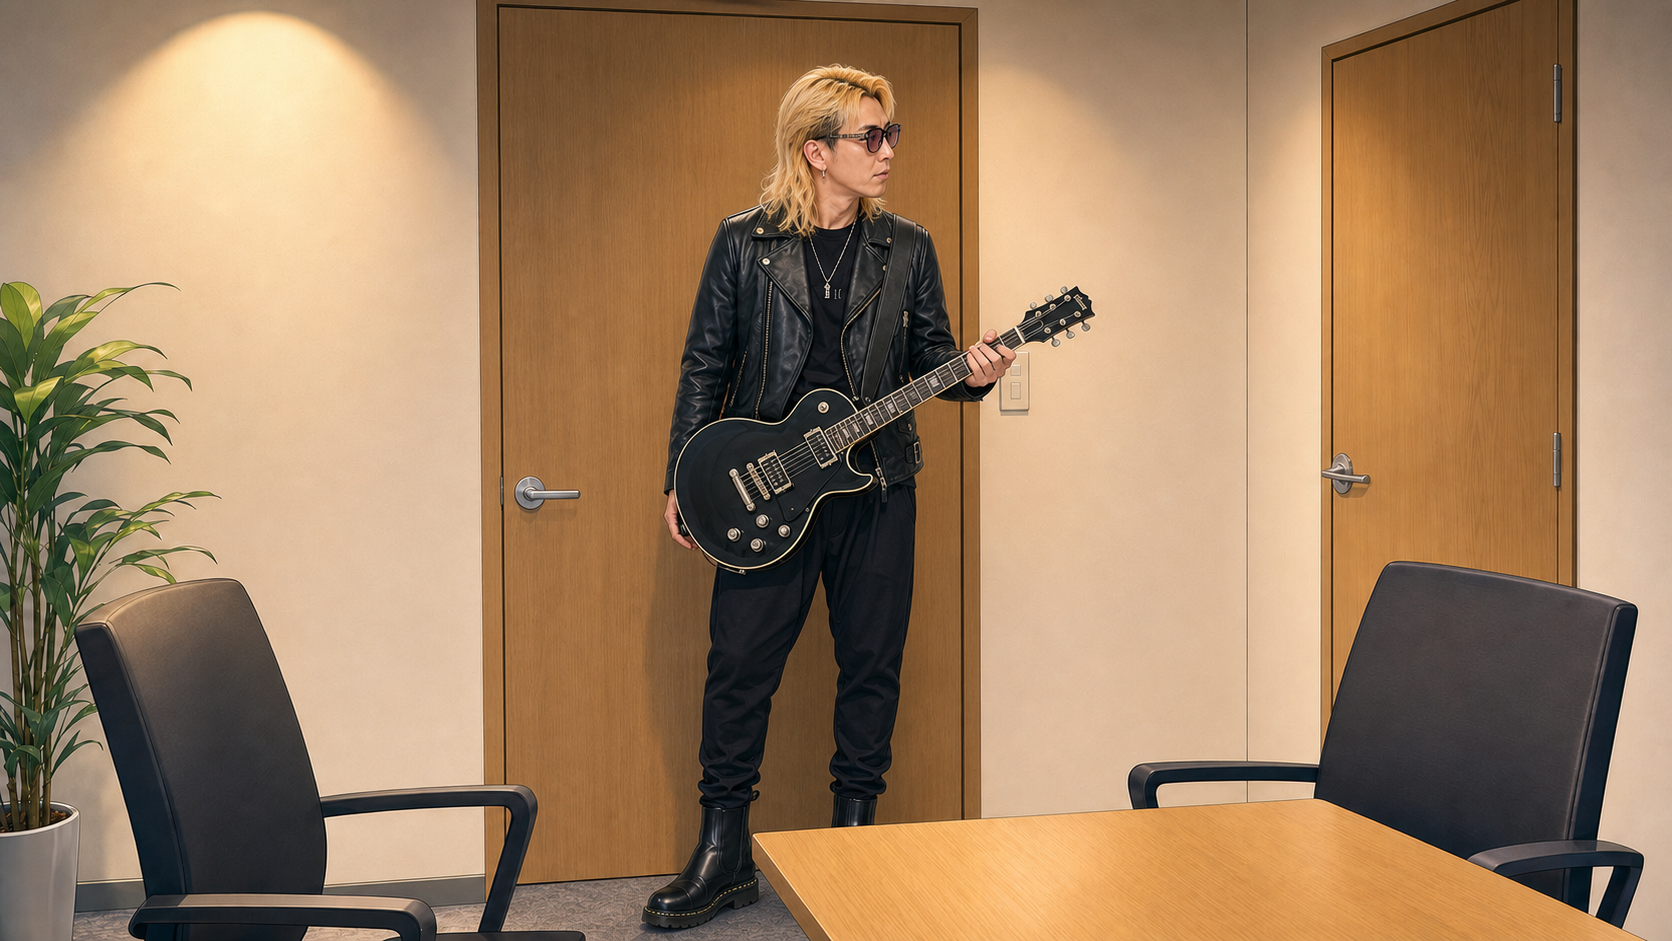
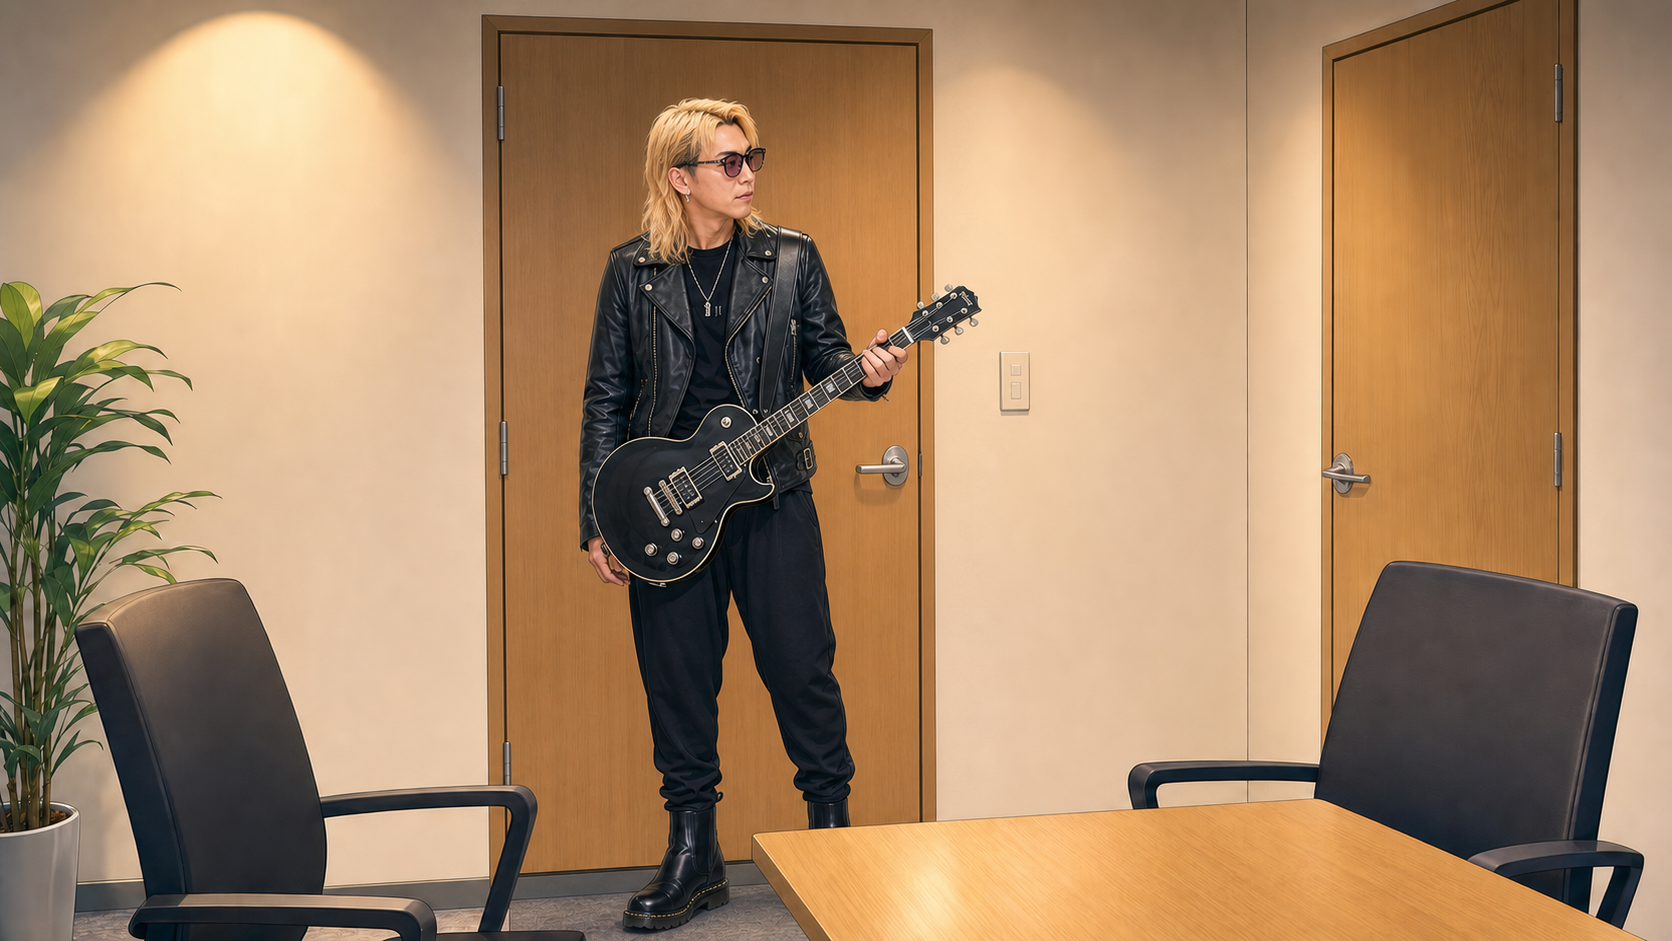
feat(seedance): ドアノブ・蝶番など機構小物の配置整合性ルールを追加
生成動画で「蝶番側にドアノブが付く」「閉扉した途端にノブが消える」崩れが
発生したため、原因（プロンプト・キーフレームに蝶番側/ノブ側の指定が無い）
への恒久対策を追加する。

- SKILL.md: 機構小物の配置整合性ルールを新設。可動建具が映るランでは
  Fixture layout台帳（蝶番側/ノブ側/開き方向）をscript.mdに必須化し、
  全キーフレーム生成プロンプトとMotion promptへの反復・否定形指示・
  目視確認・パイロット検証項目を追加
- ラン25: Fixture layout表を追加し、両クリップのフレーム記述・
  Motion prompt・キーフレーム生成プロンプトに金具指定を反映
- clip1_end.png / clip2_end.png: ノブが蝶番側に描かれていたため
  正しい配置（入口ドア=左蝶番・右端ノブ、サイドドア=右蝶番・左端ノブ）で
  再生成。validate_run_bundle.py通過済み

diff --git a/03_SCRIPTS/25_yotan_sobaya_dress_code_interview/script.md b/03_SCRIPTS/25_yotan_sobaya_dress_code_interview/script.md
@@ -29,6 +29,15 @@ Setting: a clean, bright interview room at Accidenchua Inc., with a hallway entr
 
 Logical check: the entrance and side-door transitions occur visibly. No liquid level changes. Nobody drinks or pours. Yotan's guitar and Sobaya's mask and mug remain mandatory design elements.
 
+## Fixture layout (constant across ALL clips — hinges and handles never move)
+
+| Fixture | Hinge side (from camera) | Handle | Opens |
+|---|---|---|---|
+| Hallway entrance door (back wall) | LEFT edge | silver lever handle on the RIGHT edge (the edge opposite the hinges), mid-height | inward into the room, swinging toward camera-left |
+| Interview-room side door (right wall) | RIGHT edge | silver lever handle on the LEFT edge (the edge opposite the hinges), mid-height | inward into the room, swinging toward camera-right |
+
+Every keyframe prompt and Motion prompt that shows a door must repeat this layout, including when the door is fully closed. Handles never disappear, never move to the hinge side, and are never duplicated.
+
 ## Clip 1 — The unseen dress-code warning
 
 Duration: 7 seconds
@@ -37,18 +46,18 @@ Audio: `clip1_line1_sobaya.wav`
 
 ### First frame
 
-A medium-wide view from inside the spotless interview room toward the hallway entrance. Yotan — the slim 170cm 40-year-old rocker with shoulder-length blond hair, round sunglasses and a black leather biker jacket, holding an electric guitar — is halfway through the half-open door. His required guitar is securely slung across his body and one hand holds its neck. His mouth is CLOSED. Sobaya is not visible. The room's side door is closed. No text.
+A medium-wide view from inside the spotless interview room toward the hallway entrance. Yotan — the slim 170cm 40-year-old rocker with shoulder-length blond hair, round sunglasses and a black leather biker jacket, holding an electric guitar — is halfway through the half-open door. The entrance door is hinged on its LEFT edge and swung inward toward camera-left; its silver lever handle sits at mid-height on the free RIGHT edge (opposite the hinges). His required guitar is securely slung across his body and one hand holds its neck. His mouth is CLOSED. Sobaya is not visible. The room's side door is closed, with its silver lever handle at mid-height on its LEFT edge (hinge on the RIGHT edge). No text.
 
 ### Last frame
 
-The same room, framing, and lighting. Yotan now stands fully inside beside the interview table. The entrance door has closed behind him. His guitar and clothing are unchanged. He turns toward the still-closed side door with confused disbelief, mouth CLOSED. Sobaya remains completely off-screen.
+The same room, framing, and lighting. Yotan now stands fully inside beside the interview table. The entrance door has closed behind him; its silver lever handle is clearly visible at mid-height on the RIGHT edge of the closed door (hinges on the LEFT edge) — the handle has NOT disappeared and has NOT moved to the hinge side. His guitar and clothing are unchanged. He turns toward the still-closed side door (lever handle on its LEFT edge) with confused disbelief, mouth CLOSED. Sobaya remains completely off-screen.
 
 ### Prop states
 
 - Guitar: securely slung, one hand on neck → unchanged.
 - Beer mug: off-screen, upright, HALF-FULL → unchanged; no drinking or pouring.
-- Entrance door: half-open → visibly closes after Yotan enters.
-- Side door: closed → remains closed.
+- Entrance door: half-open → visibly closes after Yotan enters. Hinged on its LEFT edge, silver lever handle on the RIGHT edge (opposite the hinges) at mid-height; the handle stays on that edge through the whole swing and remains visible when the door is fully closed.
+- Side door: closed → remains closed. Lever handle on its LEFT edge (hinge on the RIGHT edge) throughout.
 
 ### Motion
 
@@ -67,7 +76,7 @@ Yotan takes two relaxed steps inside and the entrance door swings shut. An unsee
 
 ```text
 Required attached reference files: @Image1 = Sobaya_sheet.png — Sobaya's character model sheet, identity/design reference only, NOT a composition reference; @Image2 = Yotan_sheet.png — Yotan's character model sheet, identity/design reference only, NOT a composition reference. These reference attachments are REQUIRED inputs and must remain attached for this generation.
-Create a cheerful Japanese office-interview comedy shot moving exactly from Frame A to Frame B. Keep the clean interview room, framing, lighting, identities and props consistent. Yotan (@Image2, Yotan — the slim 170cm 40-year-old rocker with shoulder-length blond hair, round sunglasses and a black leather biker jacket, holding an electric guitar) takes two relaxed steps through the half-open entrance. His required electric guitar stays securely slung across his body and one hand stays on its neck. The entrance door visibly swings closed behind him. The room's side door stays CLOSED. Sobaya (@Image1, Sobaya — the hulking 180cm/100kg muscular gray-skinned man whose face is always covered by a white mask with red markings, wearing a white T-shirt and holding a large beer mug) remains completely OFF-SCREEN for the entire clip. ONLY off-screen Sobaya speaks “何その金髪と革ジャン。弊社はドレスコード厳しいよ？” using @Audio1 AS-IS. Because Sobaya is off-screen, no visible mouth lip-syncs to @Audio1. Yotan does NOT speak — his mouth stays CLOSED; he pauses, turns toward the unseen voice, and reacts with confused disbelief. Sobaya's off-screen mug stays upright and HALF-FULL. No drinking, pouring, or liquid change. Use the attached audio AS-IS; do NOT generate any voice — no synthesized speech, narration, or doubled dialogue. The reference sheets' labels must NOT appear. No subtitles, text, logos, watermarks, extra people, extra dialogue, bullying, humiliation, harassment, sadness, injury, or dark mood.
+Create a cheerful Japanese office-interview comedy shot moving exactly from Frame A to Frame B. Keep the clean interview room, framing, lighting, identities and props consistent. Yotan (@Image2, Yotan — the slim 170cm 40-year-old rocker with shoulder-length blond hair, round sunglasses and a black leather biker jacket, holding an electric guitar) takes two relaxed steps through the half-open entrance. His required electric guitar stays securely slung across his body and one hand stays on its neck. The entrance door visibly swings closed behind him. The entrance door is hinged on its LEFT edge and its silver lever handle sits at mid-height on the RIGHT edge (the edge opposite the hinges); the hinges and handle stay fixed to those same edges throughout the swing, and once the door is fully closed the handle stays clearly visible on the RIGHT edge — the handle does NOT disappear, does NOT move to the hinge side, and is NOT duplicated. The room's side door stays CLOSED, keeping its silver lever handle at mid-height on its LEFT edge (hinge on the RIGHT edge). Sobaya (@Image1, Sobaya — the hulking 180cm/100kg muscular gray-skinned man whose face is always covered by a white mask with red markings, wearing a white T-shirt and holding a large beer mug) remains completely OFF-SCREEN for the entire clip. ONLY off-screen Sobaya speaks “何その金髪と革ジャン。弊社はドレスコード厳しいよ？” using @Audio1 AS-IS. Because Sobaya is off-screen, no visible mouth lip-syncs to @Audio1. Yotan does NOT speak — his mouth stays CLOSED; he pauses, turns toward the unseen voice, and reacts with confused disbelief. Sobaya's off-screen mug stays upright and HALF-FULL. No drinking, pouring, or liquid change. Use the attached audio AS-IS; do NOT generate any voice — no synthesized speech, narration, or doubled dialogue. The reference sheets' labels must NOT appear. No subtitles, text, logos, watermarks, extra people, extra dialogue, bullying, humiliation, harassment, sadness, injury, or dark mood.
 ```
 
 ## Clip 2 — The reveal and retort
@@ -78,18 +87,18 @@ Audio: `clip2_line1_yotan.wav`
 
 ### First frame
 
-Use `clip1_end.png` unchanged. Yotan faces the closed side door with confused disbelief and a CLOSED mouth. The entrance door is closed. Sobaya remains off-screen. All prop states exactly match Clip 1's last frame.
+Use `clip1_end.png` unchanged. Yotan faces the closed side door with confused disbelief and a CLOSED mouth. The entrance door is closed, its silver lever handle visible at mid-height on its RIGHT edge (hinges on the LEFT edge). The side door's lever handle is on its LEFT edge. Sobaya remains off-screen. All prop states exactly match Clip 1's last frame.
 
 ### Last frame
 
-The same framing and room. The side door is open. Sobaya — the hulking 180cm/100kg muscular gray-skinned man whose face is always covered by a white mask with red markings, wearing a white T-shirt and holding a large beer mug — stands proudly inside. His required mask fully covers his face and his required oversized mug is upright and HALF-FULL. Yotan points at him with his free hand while his other hand holds the guitar neck. Yotan's mouth is OPEN mid-retort. Both remain friendly and comedic.
+The same framing and room. The side door is open: hinged on its RIGHT edge, it has swung inward into the room toward camera-right, and its silver lever handle is still at mid-height on the free LEFT edge of the panel. The entrance door stays closed with its lever handle visible on its RIGHT edge. Sobaya — the hulking 180cm/100kg muscular gray-skinned man whose face is always covered by a white mask with red markings, wearing a white T-shirt and holding a large beer mug — stands proudly inside. His required mask fully covers his face and his required oversized mug is upright and HALF-FULL. Yotan points at him with his free hand while his other hand holds the guitar neck. Yotan's mouth is OPEN mid-retort. Both remain friendly and comedic.
 
 ### Prop states
 
 - Guitar: same position → unchanged while Yotan points with his free hand.
 - Beer mug: off-screen, upright, HALF-FULL → visible, upright, HALF-FULL; no drinking or pouring.
-- Entrance door: closed → remains closed.
-- Side door: closed → visibly opens as Sobaya enters.
+- Entrance door: closed → remains closed; its lever handle stays visible on its RIGHT edge (hinges on the LEFT edge).
+- Side door: closed → visibly opens as Sobaya enters. Hinged on its RIGHT edge, lever handle on the LEFT edge (opposite the hinges) at mid-height; the hinges and handle stay fixed to those same edges throughout the swing — the handle never disappears or moves.
 
 ### Motion
 
@@ -109,7 +118,7 @@ After a half-beat, the side door opens and Sobaya steps in with absurd authority
 
 ```text
 Required attached reference files: @Image1 = Sobaya_sheet.png — Sobaya's character model sheet, identity/design reference only, NOT a composition reference; @Image2 = Yotan_sheet.png — Yotan's character model sheet, identity/design reference only, NOT a composition reference; @Image3 = height_lineup.png — relative height/scale reference only, NOT a composition reference. These reference attachments are REQUIRED inputs and must remain attached for this generation.
-Continue seamlessly from Frame A to Frame B in the identical clean interview room. After a short comedic half-beat, the closed side door visibly opens and Sobaya (@Image1, Sobaya — the hulking 180cm/100kg muscular gray-skinned man whose face is always covered by a white mask with red markings, wearing a white T-shirt and holding a large beer mug) steps proudly into view. Preserve his required full white mask with red markings, white short-sleeve T-shirt, muscular gray body, and required oversized clear beer mug. The mug is upright and HALF-FULL when revealed and remains HALF-FULL; Sobaya does NOT drink or pour. Yotan (@Image2, Yotan — the slim 170cm 40-year-old rocker with shoulder-length blond hair, round sunglasses and a black leather biker jacket, holding an electric guitar) holds a stunned beat, then points at Sobaya with his free hand while his other hand keeps holding his required guitar's neck. ONLY Yotan speaks “いや誰が言うとんねん,” lip-syncing naturally to @Audio1 with sharp Kansai-comedy timing. Sobaya does NOT speak; his mask remains fixed and he stands confidently. @Image3 controls relative scale only. Both are friendly and amused. Use @Audio1 AS-IS; do NOT generate any voice — no synthesized speech, narration, or doubled dialogue. The reference sheets' labels must NOT appear. No subtitles, text, logos, watermarks, extra people, extra dialogue, missing mask, missing guitar, missing mug, drinking, pouring, bullying, humiliation, harassment, sadness, injury, or dark mood.
+Continue seamlessly from Frame A to Frame B in the identical clean interview room. After a short comedic half-beat, the closed side door visibly opens and Sobaya (@Image1, Sobaya — the hulking 180cm/100kg muscular gray-skinned man whose face is always covered by a white mask with red markings, wearing a white T-shirt and holding a large beer mug) steps proudly into view. The side door is hinged on its RIGHT edge and its silver lever handle sits at mid-height on the LEFT edge (the edge opposite the hinges); it swings open inward into the room toward camera-right, and the hinges and handle stay fixed to those same edges throughout the swing — the handle does NOT disappear, does NOT move to the hinge side, and is NOT duplicated. The closed entrance door keeps its silver lever handle clearly visible at mid-height on its RIGHT edge (hinges on the LEFT edge). Preserve his required full white mask with red markings, white short-sleeve T-shirt, muscular gray body, and required oversized clear beer mug. The mug is upright and HALF-FULL when revealed and remains HALF-FULL; Sobaya does NOT drink or pour. Yotan (@Image2, Yotan — the slim 170cm 40-year-old rocker with shoulder-length blond hair, round sunglasses and a black leather biker jacket, holding an electric guitar) holds a stunned beat, then points at Sobaya with his free hand while his other hand keeps holding his required guitar's neck. ONLY Yotan speaks “いや誰が言うとんねん,” lip-syncing naturally to @Audio1 with sharp Kansai-comedy timing. Sobaya does NOT speak; his mask remains fixed and he stands confidently. @Image3 controls relative scale only. Both are friendly and amused. Use @Audio1 AS-IS; do NOT generate any voice — no synthesized speech, narration, or doubled dialogue. The reference sheets' labels must NOT appear. No subtitles, text, logos, watermarks, extra people, extra dialogue, missing mask, missing guitar, missing mug, drinking, pouring, bullying, humiliation, harassment, sadness, injury, or dark mood.
 ```
 
 ## Keyframe generation prompts
@@ -117,19 +126,19 @@ Continue seamlessly from Frame A to Frame B in the identical clean interview roo
 ### `clip1_start.png`
 
 ```text
-Required input images: Image 1 = Sobaya_sheet.png — Sobaya's bundled character model sheet, identity/design reference only; Image 2 = Yotan_sheet.png — Yotan's bundled character model sheet, identity/design reference only. Create the FIRST-FRAME still of a 16:9 cheerful office-interview comedy. View from inside a spotless interview room toward a half-open hallway entrance. Yotan from Image 2 is halfway through the door. Preserve his shoulder-length blond hair, round sunglasses, black leather biker jacket, and required electric guitar, securely slung with one hand on its neck. His mouth is FULLY CLOSED. Include a simple table, two chairs, and a second CLOSED side door. Sobaya is completely off-screen. Polished anime illustration, warm clean lighting, no text, labels, subtitles, logos, or watermark.
+Required input images: Image 1 = Sobaya_sheet.png — Sobaya's bundled character model sheet, identity/design reference only; Image 2 = Yotan_sheet.png — Yotan's bundled character model sheet, identity/design reference only. Create the FIRST-FRAME still of a 16:9 cheerful office-interview comedy. View from inside a spotless interview room toward a half-open hallway entrance. The entrance door is hinged on its LEFT edge and swung inward toward camera-left; its silver lever handle sits at mid-height on the free RIGHT edge (the edge opposite the hinges). Yotan from Image 2 is halfway through the door. Preserve his shoulder-length blond hair, round sunglasses, black leather biker jacket, and required electric guitar, securely slung with one hand on its neck. His mouth is FULLY CLOSED. Include a simple table, two chairs, and a second CLOSED side door on the right wall whose silver lever handle sits at mid-height on its LEFT edge (hinge on the RIGHT edge). Sobaya is completely off-screen. Polished anime illustration, warm clean lighting, no text, labels, subtitles, logos, or watermark.
 ```
 
 ### `clip1_end.png` (also Clip 2 Frame A)
 
 ```text
-Required input images: Image 1 = clip1_start.png — previous frame and composition lock; Image 2 = Sobaya_sheet.png — Sobaya's bundled character model sheet, identity/design reference only; Image 3 = Yotan_sheet.png — Yotan's bundled character model sheet, identity/design reference only. Create the LAST-FRAME still of the same shot. Preserve Image 1's exact room, art style, framing, lighting, and Yotan identity. Yotan now stands fully inside beside the table. The entrance door is closed. His clothes, guitar, strap, and hand on its neck are unchanged. He turns toward the still-CLOSED side door with confused disbelief and his mouth FULLY CLOSED. Sobaya remains completely off-screen. No text, labels, subtitles, logos, or watermark.
+Required input images: Image 1 = clip1_start.png — previous frame and composition lock; Image 2 = Sobaya_sheet.png — Sobaya's bundled character model sheet, identity/design reference only; Image 3 = Yotan_sheet.png — Yotan's bundled character model sheet, identity/design reference only. Create the LAST-FRAME still of the same shot. Preserve Image 1's exact room, art style, framing, lighting, and Yotan identity. Yotan now stands fully inside beside the table. The entrance door is fully closed: it is hinged on its LEFT edge and its silver lever handle is clearly visible at mid-height on the RIGHT edge of the closed door (the edge opposite the hinges) — the handle must NOT be on the left/hinge side and must NOT be missing. His clothes, guitar, strap, and hand on its neck are unchanged. He turns toward the still-CLOSED side door (silver lever handle at mid-height on its LEFT edge, hinge on the RIGHT edge) with confused disbelief and his mouth FULLY CLOSED. Sobaya remains completely off-screen. No text, labels, subtitles, logos, or watermark.
 ```
 
 ### `clip2_end.png`
 
 ```text
-Required input images: Image 1 = clip1_end.png — previous frame and composition lock; Image 2 = Sobaya_sheet.png — Sobaya's bundled character model sheet, identity/design reference only; Image 3 = Yotan_sheet.png — Yotan's bundled character model sheet, identity/design reference only; Image 4 = height_lineup.png — bundled relative scale reference only. Create the LAST-FRAME still of the continuous shot. Preserve Image 1's exact room, art style, framing, lighting, and Yotan identity. The side door is OPEN. Sobaya from Image 2 stands proudly inside, preserving his required full white mask with red markings, white short-sleeve T-shirt, muscular gray body, and oversized clear beer mug. The upright mug is HALF-FULL; no drinking. Yotan points at Sobaya with his free hand while his other hand holds his unchanged guitar neck. Yotan's mouth is OPEN mid-retort. Sobaya is taller and broader. Friendly comedy, no text, labels, subtitles, logos, or watermark.
+Required input images: Image 1 = clip1_end.png — previous frame and composition lock; Image 2 = Sobaya_sheet.png — Sobaya's bundled character model sheet, identity/design reference only; Image 3 = Yotan_sheet.png — Yotan's bundled character model sheet, identity/design reference only; Image 4 = height_lineup.png — bundled relative scale reference only. Create the LAST-FRAME still of the continuous shot. Preserve Image 1's exact room, art style, framing, lighting, and Yotan identity. The side door is OPEN: hinged on its RIGHT edge, it has swung inward into the room toward camera-right, and its silver lever handle is still at mid-height on the free LEFT edge of the panel — the handle must NOT be missing or on the hinge side. The entrance door stays fully closed with its silver lever handle visible at mid-height on its RIGHT edge (hinges on the LEFT edge). Sobaya from Image 2 stands proudly inside, preserving his required full white mask with red markings, white short-sleeve T-shirt, muscular gray body, and oversized clear beer mug. The upright mug is HALF-FULL; no drinking. Yotan points at Sobaya with his free hand while his other hand holds his unchanged guitar neck. Yotan's mouth is OPEN mid-retort. Sobaya is taller and broader. Friendly comedy, no text, labels, subtitles, logos, or watermark.
 ```
 
 ## Generation & assembly protocol (REQUIRED — read before generating anything in CapCut)
@@ -139,6 +148,7 @@ Generate ONLY Clip 1, then verify ALL of the following before touching any other
 - [ ] The dialogue audio in the output is the attached wav AS-IS (no synthesized voice, no doubled voices)
 - [ ] The CORRECT character lip-syncs to each line (the speaker named in the prompt moves their mouth; every non-speaker's mouth stays closed)
 - [ ] Motion, poses and prop states match the Motion prompt and the Prop state ledger
+- [ ] Door hardware follows the Fixture layout table in EVERY frame: hinges and lever handles stay on their specified edges, and the handle stays visible after the entrance door finishes closing (it never disappears, jumps to the hinge side, or duplicates)
 - [ ] The clip duration equals the Duration specified in the CapCut inputs table (NOT the ~8s default)
 If any check fails, fix the inputs/prompt and regenerate Clip 1 until all pass.
 Only then generate the remaining clips, and re-run at least the audio + duration checks on every clip.
